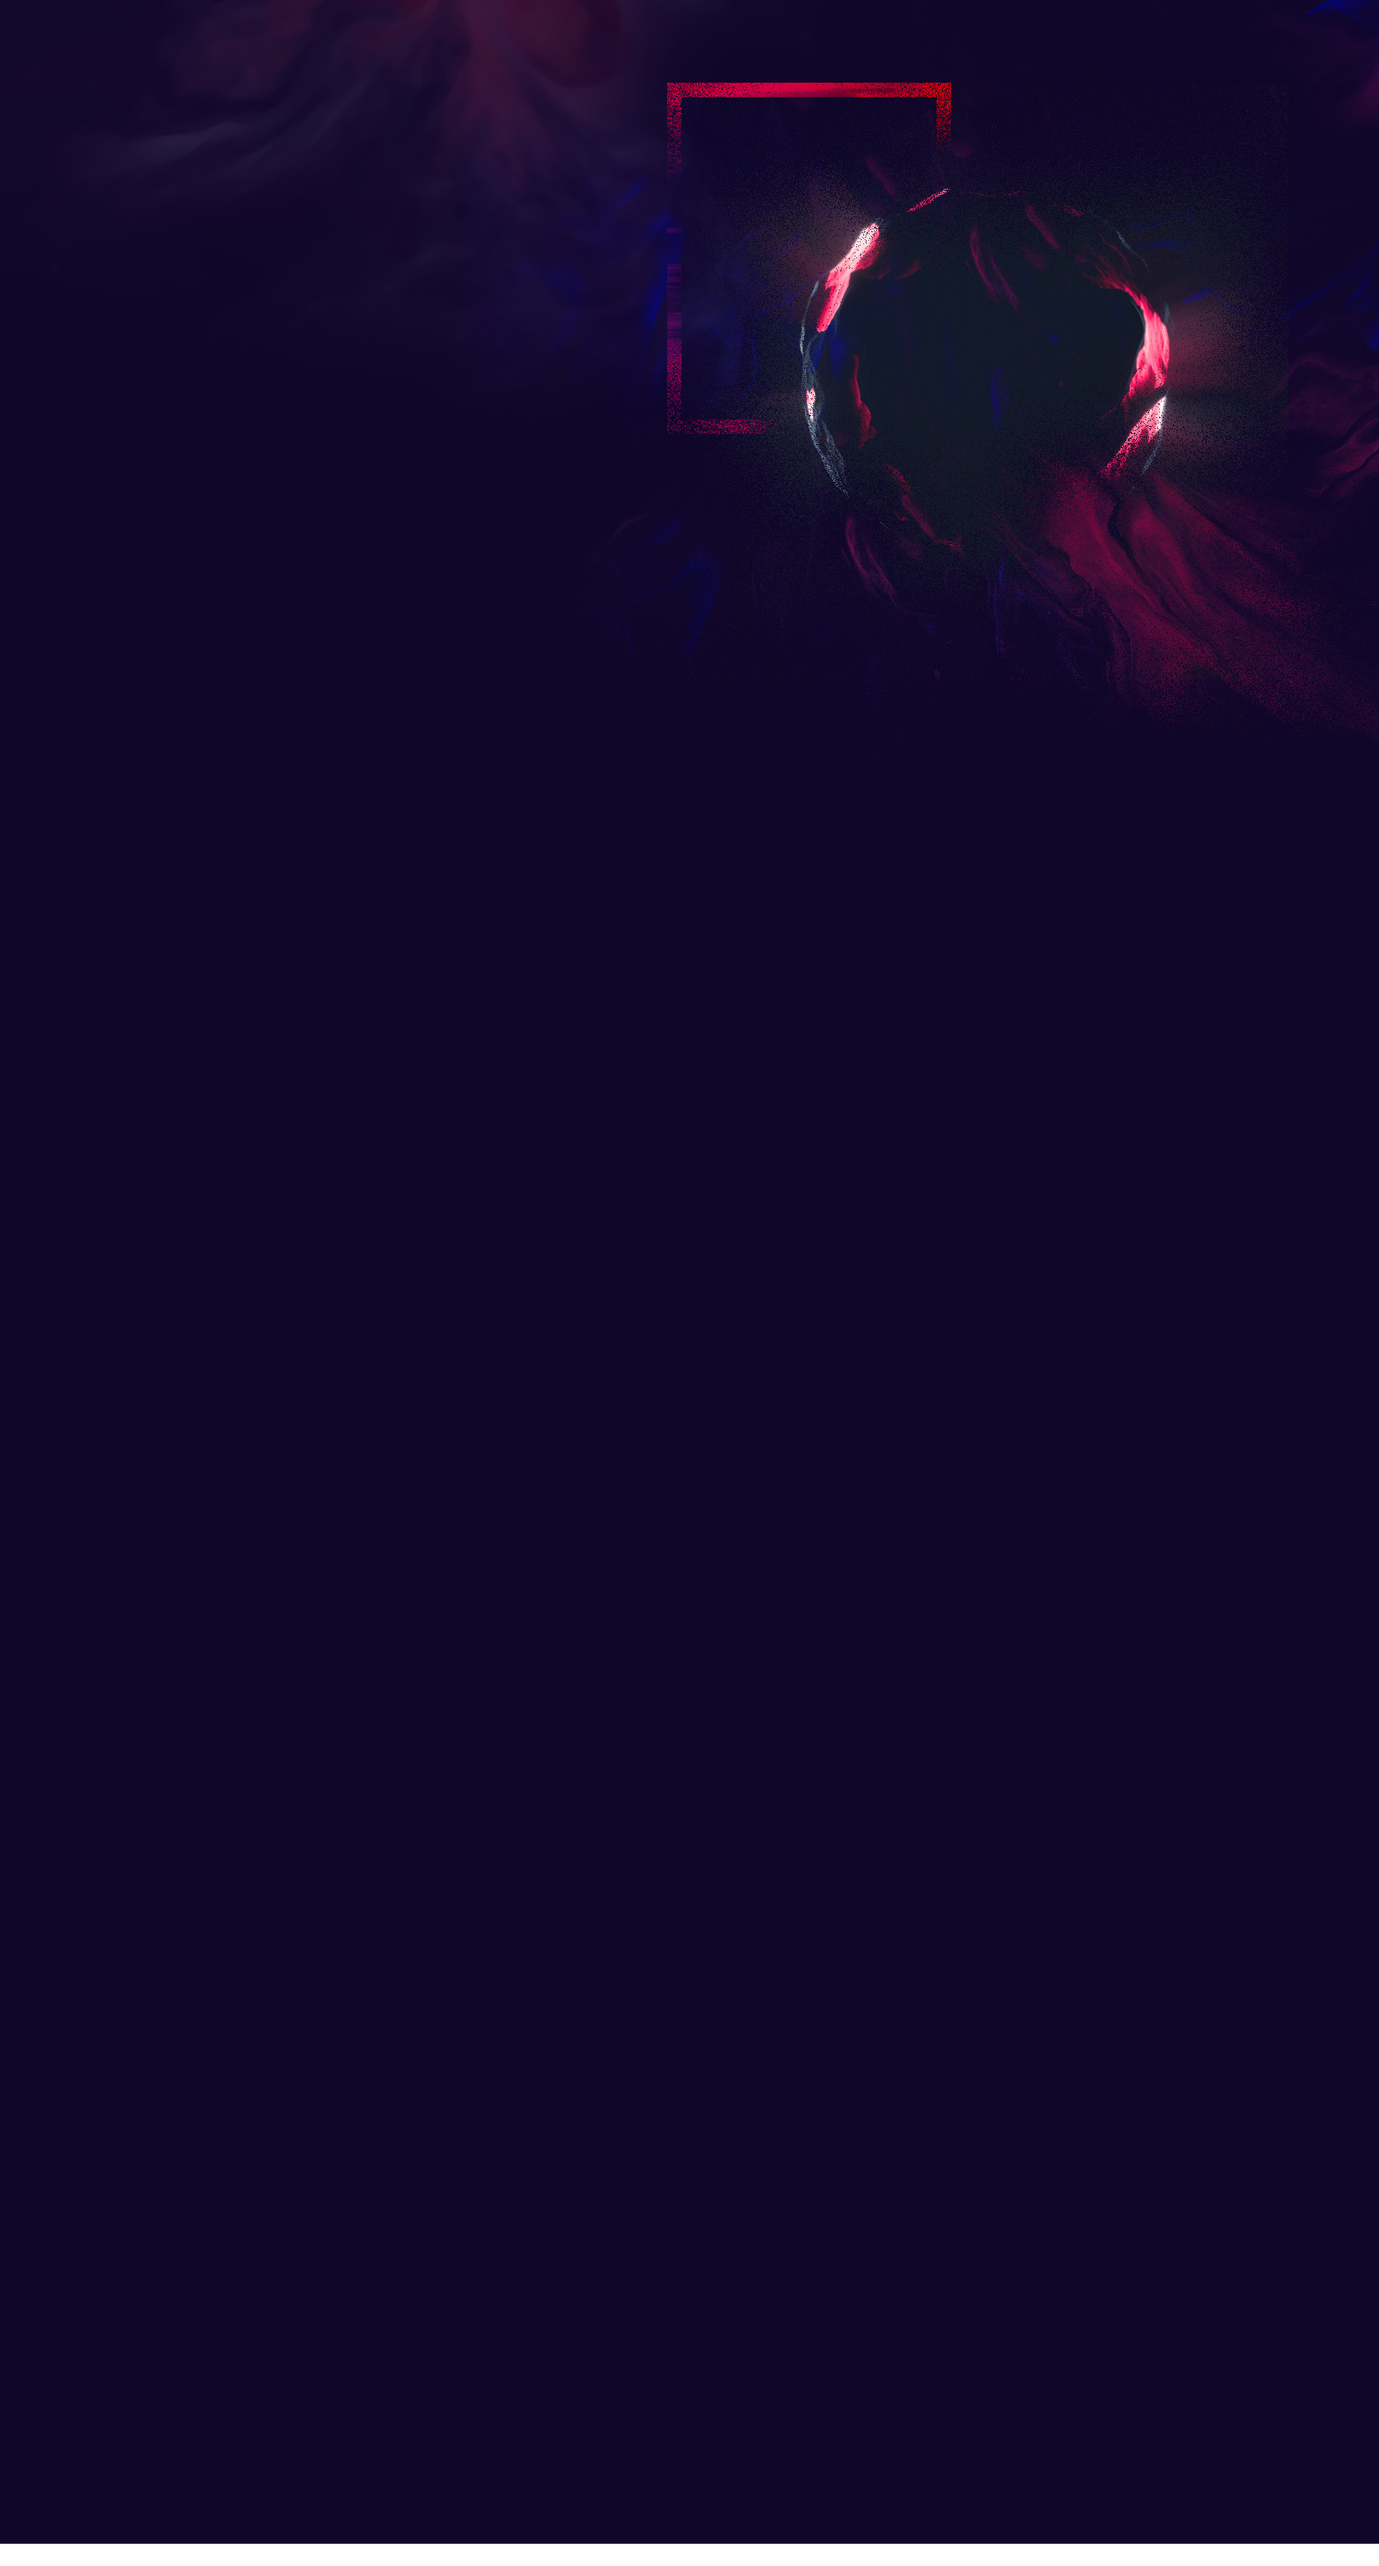
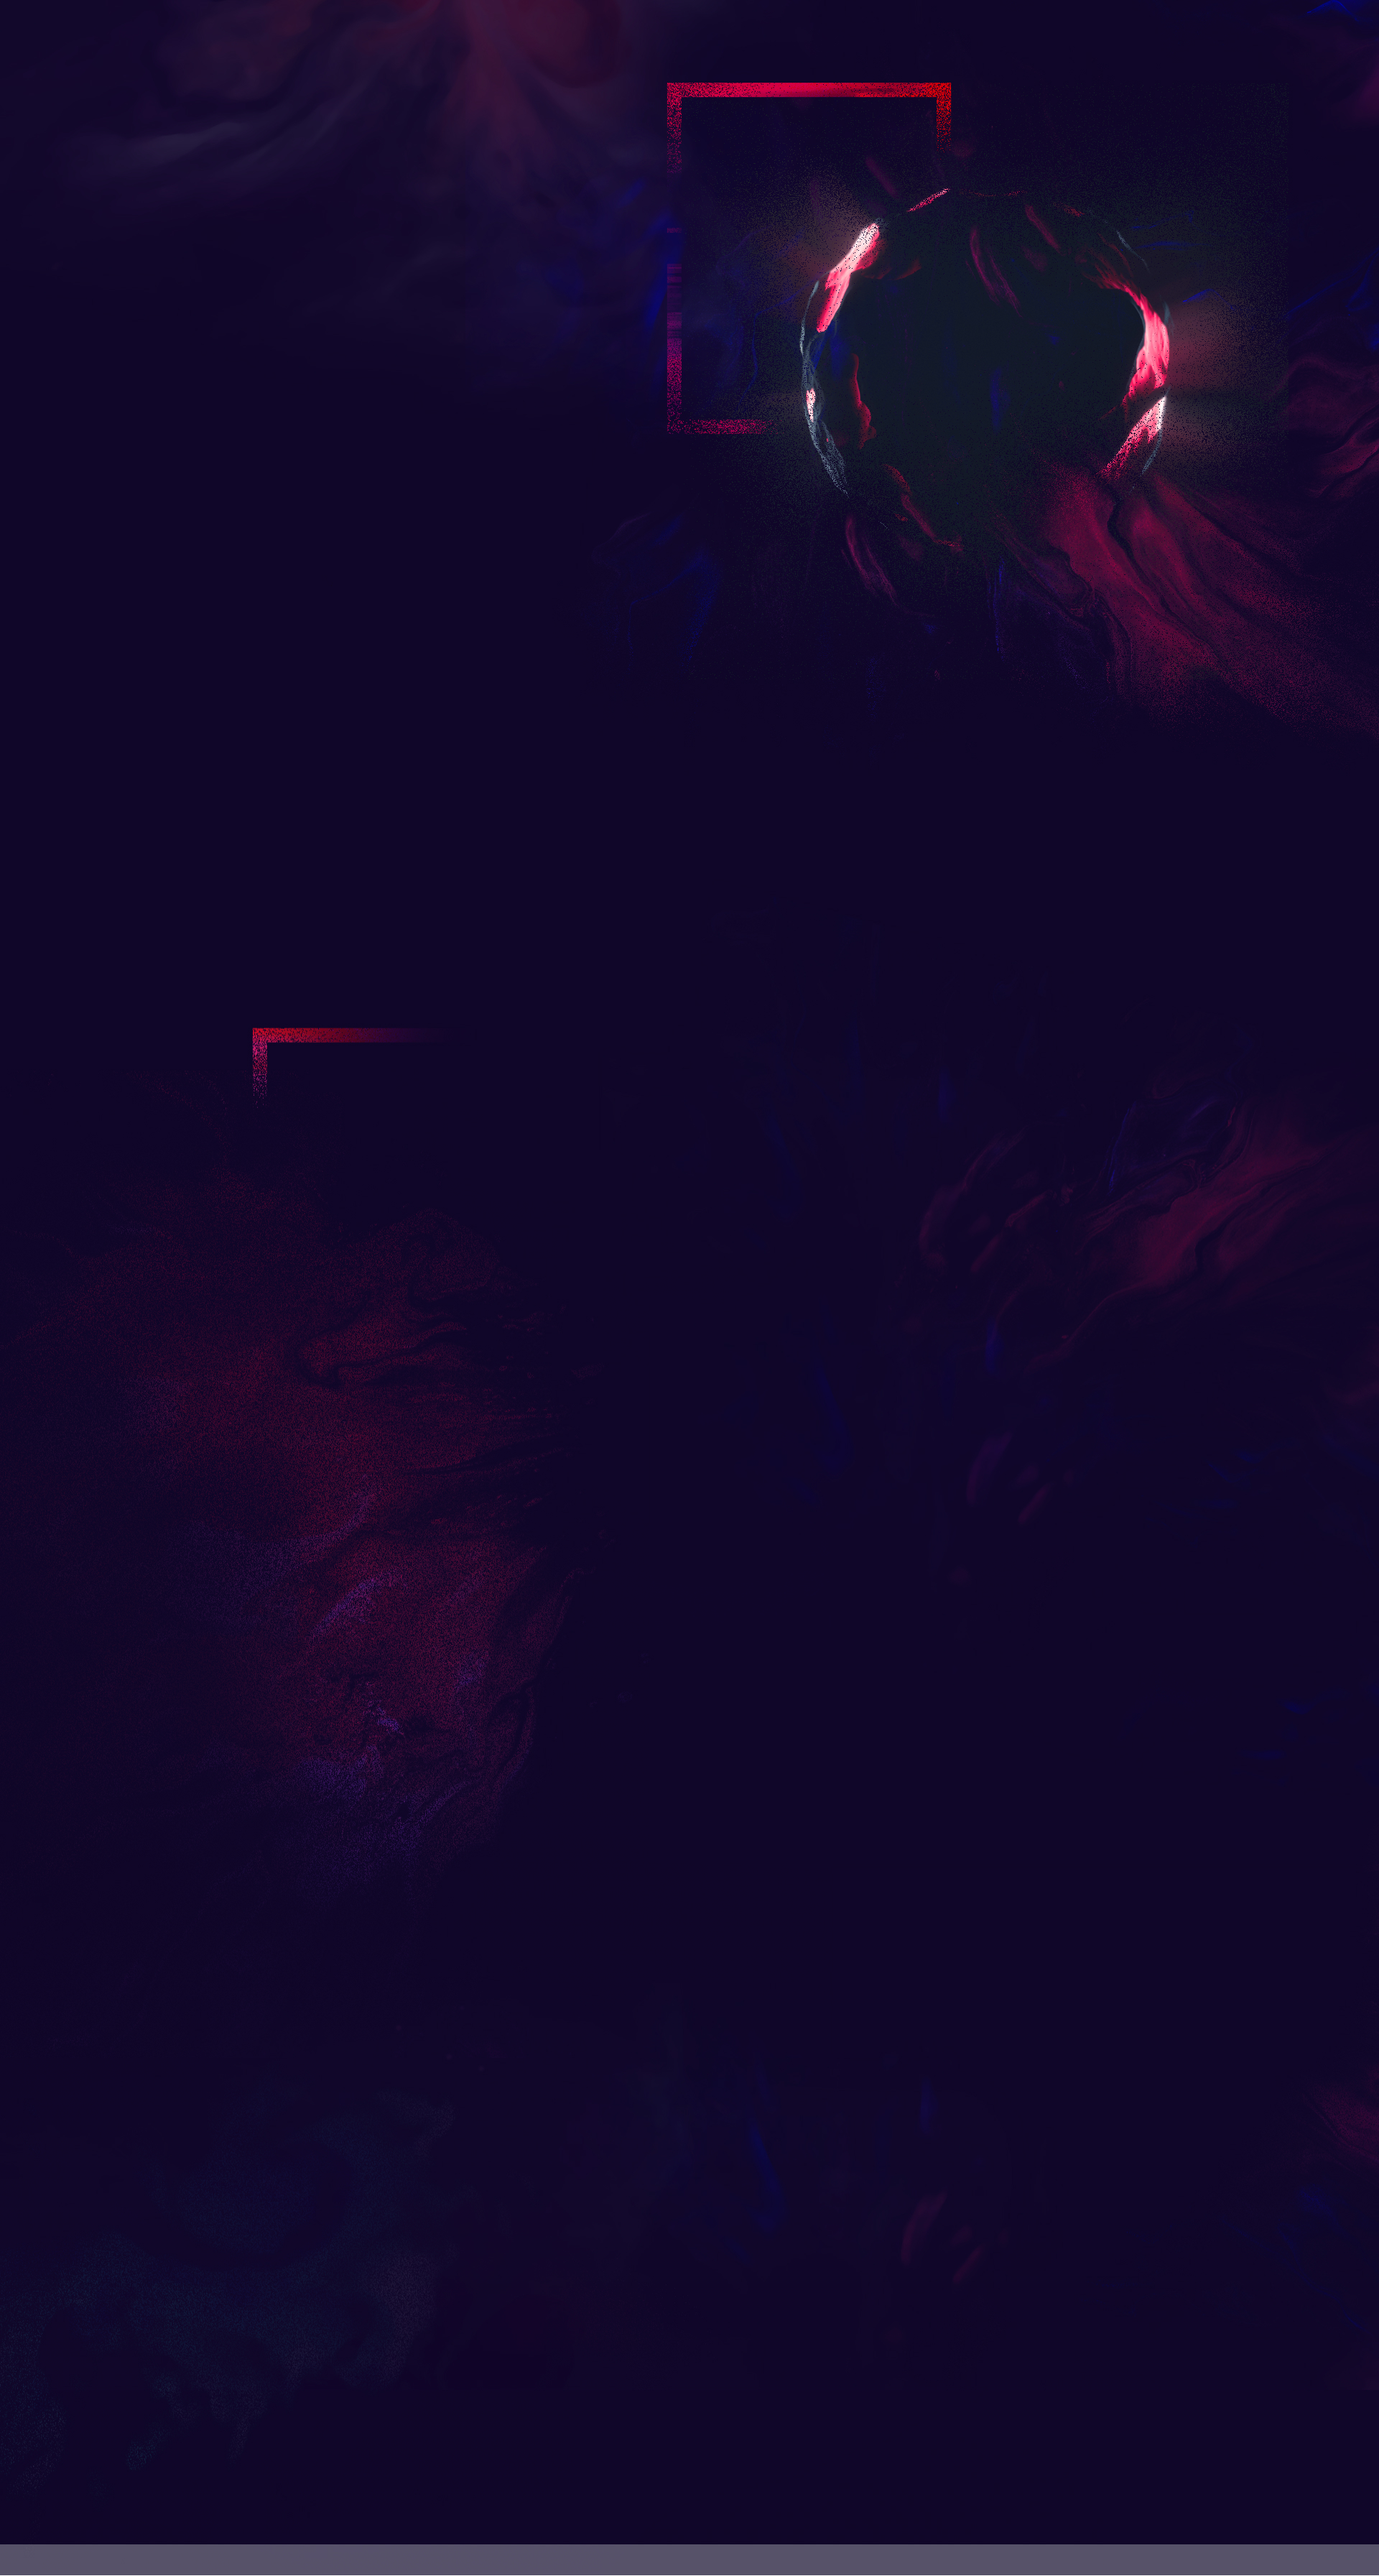
section schedule done

diff --git a/index.html b/index.html
@@ -47,9 +47,10 @@
       <section class="o-container--section s-two d-flex">
         <div class="e-block--league nonpro">
           <div class="logo"></div>
-          <h3 class="t-title-h3 c-bg-league--yellow">Non-pro League</h3>
+          <h3 class="t-title-h3 c-bg-league--yellow t-bold">Non-pro League</h3>
           <ul class="t-list c-t-white">
             <li>Team</li>
+            <li>Capitans Mode</li>
           </ul>
           <a
             href="https://www.faceit.com/en/organizers/1fefceea-f4f9-4667-937e-6a9788890141/Maincast"
@@ -59,7 +60,7 @@
         </div>
         <div class="e-block--league solo">
           <div class="logo"></div>
-          <h3 class="t-title-h3 c-bg-league--red">Solo League</h3>
+          <h3 class="t-title-h3 c-bg-league--red t-bold">Solo League</h3>
           <ul class="t-list c-t-white">
             <li>1x1</li>
             <li>SOLO MID</li>
@@ -69,6 +70,65 @@
             class="button-action"
             >Принять участие
           </a>
+        </div>
+      </section>
+      <section class="o-container--section s-three d-flex--center ">
+        <div class="nonpro t-center">
+          <div class="logo"></div>
+          <h3 class="t-title-h3 color-t-yellow t-bold">Non-pro League</h3>
+          <h3 class="t-title-h3 c-t-white ">І СЕЗОН</h3>
+        </div>
+      </section>
+      <section class="o-container--section s-four margin-b-50">
+        <div class="o-container--shedule d-flex--column position-rel">
+          <div class="e-block--shcedule left">
+            <h4 class="color-t-vivid-red">16 июля - 31 июля</h4>
+            <ul class="t-list-bulletless icon-item icon-ammo">
+              <li><span>Регистрация команд.</span></li>
+              <li><span>Capitans Mode</span></li>
+            </ul>
+          </div>
+          <div class="e-block--shcedule margin-t-80">
+            <p class="t-max-width icon-item icon-heads">
+              Игроки участвовавшие в турнирах DPC-сезона не допускаются.
+            </p>
+          </div>
+          <div class="e-block--shcedule right">
+            <div class="o-text-container">
+              <h4 class="color-t-vivid-red ">3, 10, 17, 31 августа</h4>
+              <ul class="t-list-bulletless icon-item icon-swords right">
+                <li>Открытые квалификации</li>
+                <li>4 отборочных раз в неделю.</li>
+                <li>Free to play</li>
+              </ul>
+              <ul class="t-list-bulletless icon-item icon-lc">
+                <li>CIS DIVISION A - ТОР 8 команд</li>
+                <li>CIS DIVISION В - ТОР 8-16 команд</li>
+              </ul>
+            </div>
+          </div>
+          <div class="e-block--shcedule left margin-t-50">
+            <h4 class="color-t-vivid-red ">1 сентября - 1 декабря</h4>
+            <p>Online турнир. Этап 1</p>
+            <ul class="t-list-bulletless icon-item icon-swords left">
+              <li>CIS DIVISION В x 8 команд</li>
+              <li>CIS DIVISION A x 8 команд</li>
+            </ul>
+          </div>
+          <div class="e-block--shcedule right margin-t-80">
+            <div class="o-text-container">
+              <h4 class="color-t-vivid-red icon-item icon-swords right-top">
+                декабрь
+              </h4>
+              <p>Online турнир. Этап 2</p>
+              <p>ТОР4 команды CIS DIVISION A сразятся в play off</p>
+              <ul class="t-list-bulletless">
+                <li>CIS DIVISION В x 8 команд</li>
+                <li>CIS DIVISION A x 8 команд</li>
+              </ul>
+            </div>
+          </div>
+          <div class="e-vertical-line position-abs"></div>
         </div>
       </section>
     </div>

diff --git a/assets/css/components/elements.css b/assets/css/components/elements.css
@@ -64,18 +64,14 @@
   height: 140px;
   margin: 20px 40px;
 }
-
-.e-block--league.nonpro .logo {
+.nonpro .logo {
   background: url("../../images/logo_nonpro.svg") no-repeat center center;
 }
-.e-block--league.solo .logo {
+.solo .logo {
   background: url("../../images/logo_solo.svg") no-repeat center center;
 }
-
 .e-block--league .t-title-h3 {
   padding: 26px 40px 22px 40px;
-  font-weight: 700;
-  font-family: "Akrobat-Bold", sans-serif;
   margin: 20px 0;
 }
 .e-block--league .t-list {
@@ -90,4 +86,128 @@
   z-index: 10;
   color: #a1b6ff;
   border: 2px solid #a1b6ff;
+}
+/* .s-three {
+
+} */
+.s-three .nonpro .logo {
+  width: 125px;
+  height: 193px;
+  margin: auto;
+}
+.s-three .nonpro .t-title-h3 {
+  padding: 26px 40px 22px 40px;
+  margin: 20px 0;
+  font-size: 58px;
+}
+/* .s-three .nonpro {
+} */
+.e-block--shcedule {
+  position: relative;
+  padding-left: 60px;
+}
+.e-block--shcedule,
+.e-block--shcedule p {
+  font-size: 24px;
+  line-height: 30px;
+  letter-spacing: 0.02em;
+}
+.e-block--shcedule h4 {
+  margin-top: 0;
+  margin-bottom: 27px;
+}
+.e-block--shcedule .icon-item:after {
+  content: "";
+  position: absolute;
+}
+.e-block--shcedule .icon-ammo:after {
+  top: 50px;
+  left: 0;
+  width: 30px;
+  height: 38px;
+  background: url("../../images/icon_ammo.svg") no-repeat center center;
+}
+.e-block--shcedule .icon-heads:after {
+  top: -55px;
+  left: 60px;
+  width: 155px;
+  height: 35px;
+  background: url("../../images/icon_heads.svg") no-repeat center center;
+}
+.e-block--shcedule .icon-swords:after {
+  width: 34px;
+  height: 30px;
+  background: url("../../images/icon_swords.svg") no-repeat center center;
+}
+.e-block--shcedule .icon-swords.right-top:after {
+  top: 55px;
+  right: 320px;
+}
+.e-block--shcedule .icon-swords.right:after {
+  top: 170px;
+  right: 320px;
+}
+.e-block--shcedule .icon-swords.left:after {
+  top: 55px;
+  left: 0;
+}
+.e-block--shcedule .o-text-container .icon-lc:after {
+  top: 55px;
+  right: 320px;
+  width: 34px;
+  height: 30px;
+  background: url("../../images/icon_champions_league_lfc_6times.svg") no-repeat
+    center center;
+}
+.e-block--shcedule.left:after {
+  content: "";
+  top: 10px;
+  left: 356px;
+  width: 160px;
+  height: 15px;
+  position: absolute;
+  background: url("../../images/s4_shcedule_line-left.svg") no-repeat center
+    center;
+  z-index: 10;
+}
+/* .e-block--shcedule.right:after {
+  content: "";
+  top: 10px;
+  left: 355px;
+  width: 160px;
+  height: 15px;
+  position: absolute;
+  background: url("../../images/s4_shcedule_line-right.svg") no-repeat center
+    center;
+} */
+.e-block--shcedule.right {
+  display: flex;
+  flex-direction: column;
+  align-items: flex-end;
+}
+.e-block--shcedule.right .o-text-container:after {
+  content: "";
+  top: 10px;
+  right: 357px;
+  width: 160px;
+  height: 15px;
+  position: absolute;
+  background: url("../../images/s4_shcedule_line-right.svg") no-repeat center
+    center;
+  z-index: 10;
+}
+
+.e-vertical-line {
+  top: 0;
+  left: 50%;
+  transform: translateX(-50%);
+  width: 1px;
+  height: 976px;
+  background: linear-gradient(
+    179.98deg,
+    rgba(255, 0, 77, 0) 0%,
+    #ff145b 32.29%,
+    #ff004d 84.58%,
+    rgba(251, 60, 117, 0) 95.16%
+  );
 }

diff --git a/assets/css/components/objects.css b/assets/css/components/objects.css
@@ -3,8 +3,8 @@
   height: 100%;
   padding: 0 25px;
   /* background: url("../../images/bg_full.jpg") no-repeat center center; */
-  background: url("../../images/bg_full.jpg") no-repeat center top;
-  background-size: cover;
+  background: url("../../images/bg_full_mini.jpg") no-repeat center top;
+  /* background-size: cover; */
 }
 .o-container {
   max-width: 1772px;
@@ -24,4 +24,14 @@
 }
 .o-container--section.s-two {
   padding-bottom: 250px;
+}
+.o-container--shedule {
+  max-width: 1020px;
+  margin: auto;
+  padding-top: 32px;
+}
+.o-text-container {
+  width: 373px;
+  padding-left: 75px;
+  text-align: left;
 }

diff --git a/assets/css/components/typography.css b/assets/css/components/typography.css
@@ -2,7 +2,13 @@ a {
   text-decoration: none;
   cursor: pointer;
 }
-
+.t-bold {
+  font-weight: 700;
+  font-family: "Akrobat-Bold", sans-serif;
+}
+.t-center {
+  text-align: center;
+}
 .t-title {
   font-size: 58px;
   margin: 0;
@@ -32,4 +38,11 @@ a {
   font-size: 24px;
   line-height: 30px;
   letter-spacing: 0.02em;
+}
+.t-list-bulletless {
+  padding: 0;
+  list-style-type: none;
+}
+.t-max-width {
+  max-width: 348px;
 }

diff --git a/assets/css/components/colors.css b/assets/css/components/colors.css
@@ -10,3 +10,12 @@
 .c-bg-league--red {
   background: linear-gradient(180deg, #ec0c4b 0%, #ff4a7d 100%);
 }
+.color-t-yellow {
+  color: #f3f744;
+}
+.color-t-vivid-red {
+  font-size: 24px;
+  line-height: 30px;
+  letter-spacing: 0.02em;
+  color: #ec0c4b;
+}

diff --git a/assets/css/style.css b/assets/css/style.css
@@ -30,3 +30,18 @@
 .padding-none {
   padding: 0;
 }
+.margin-t-80 {
+  margin-top: 80px;
+}
+.margin-t-50 {
+  margin-top: 50px;
+}
+.margin-b-50 {
+  margin-bottom: 50px;
+}
+.position-rel {
+  position: relative;
+}
+.position-abs {
+  position: absolute;
+}

diff --git a/assets/css/components/font.css b/assets/css/components/font.css
@@ -22,5 +22,6 @@
 }
 
 body {
+  color: #fff;
   font-family: "Akrobat", sans-serif;
 }
